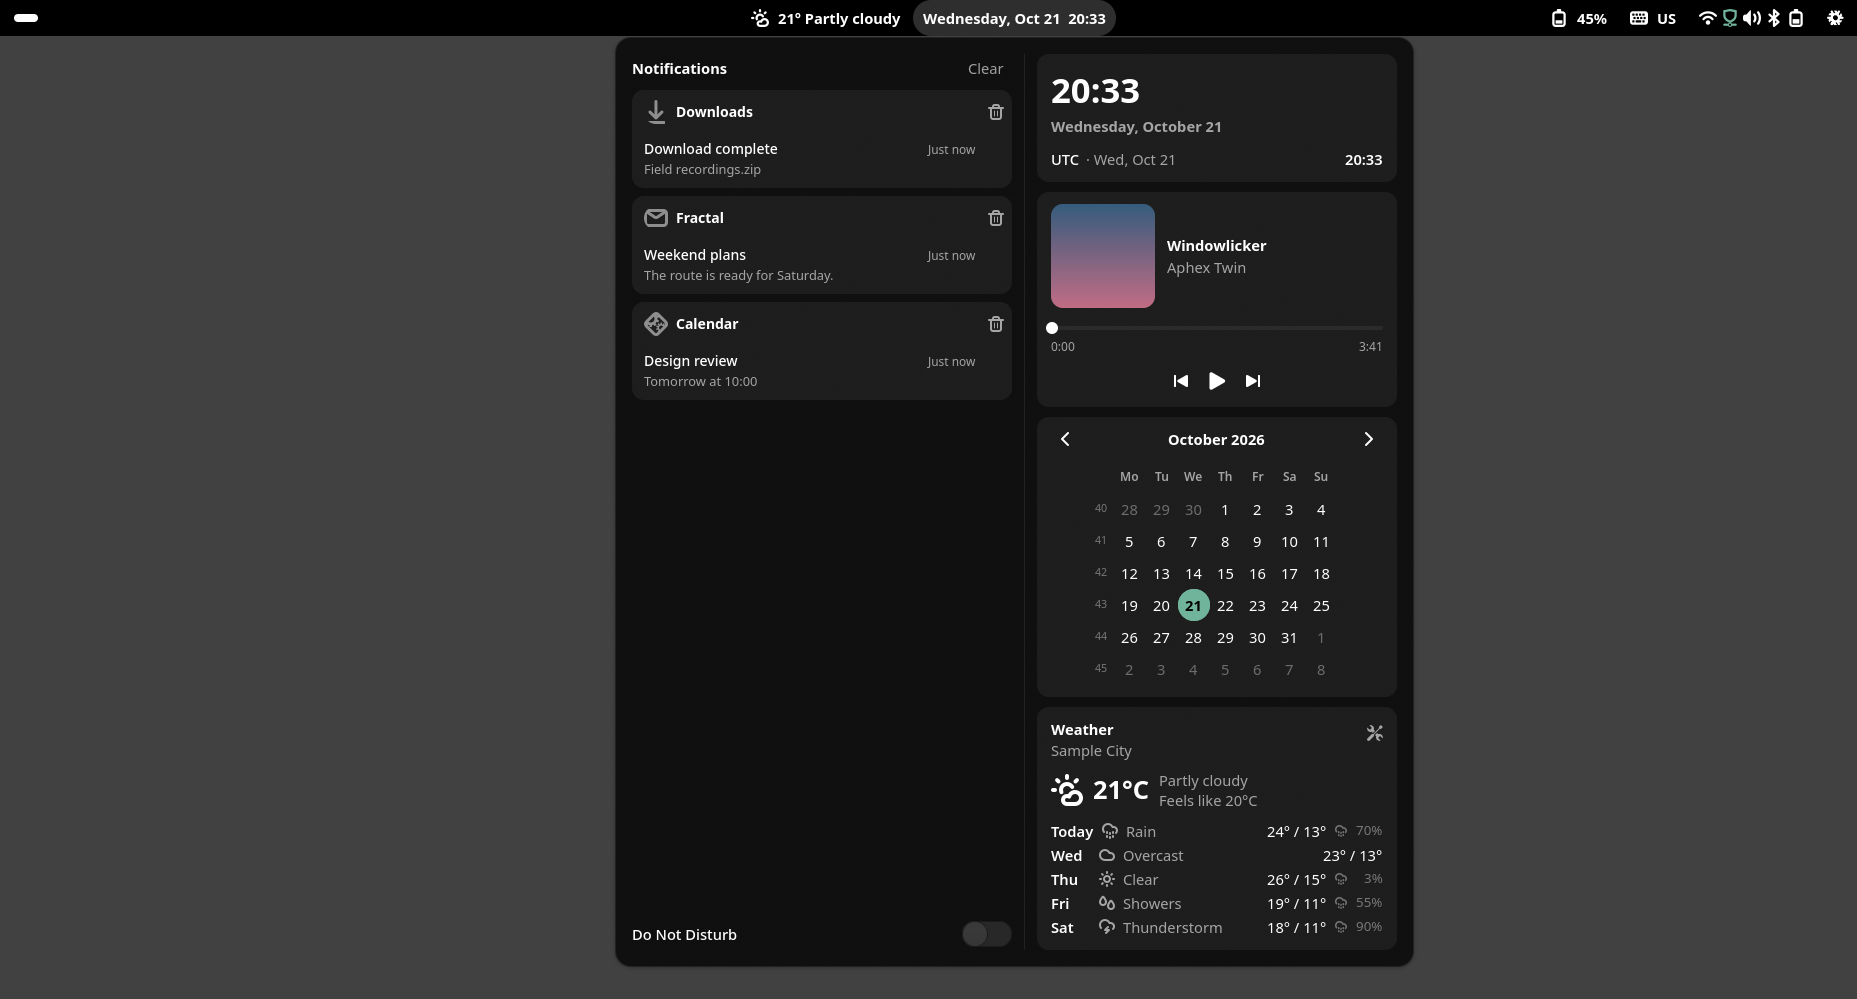
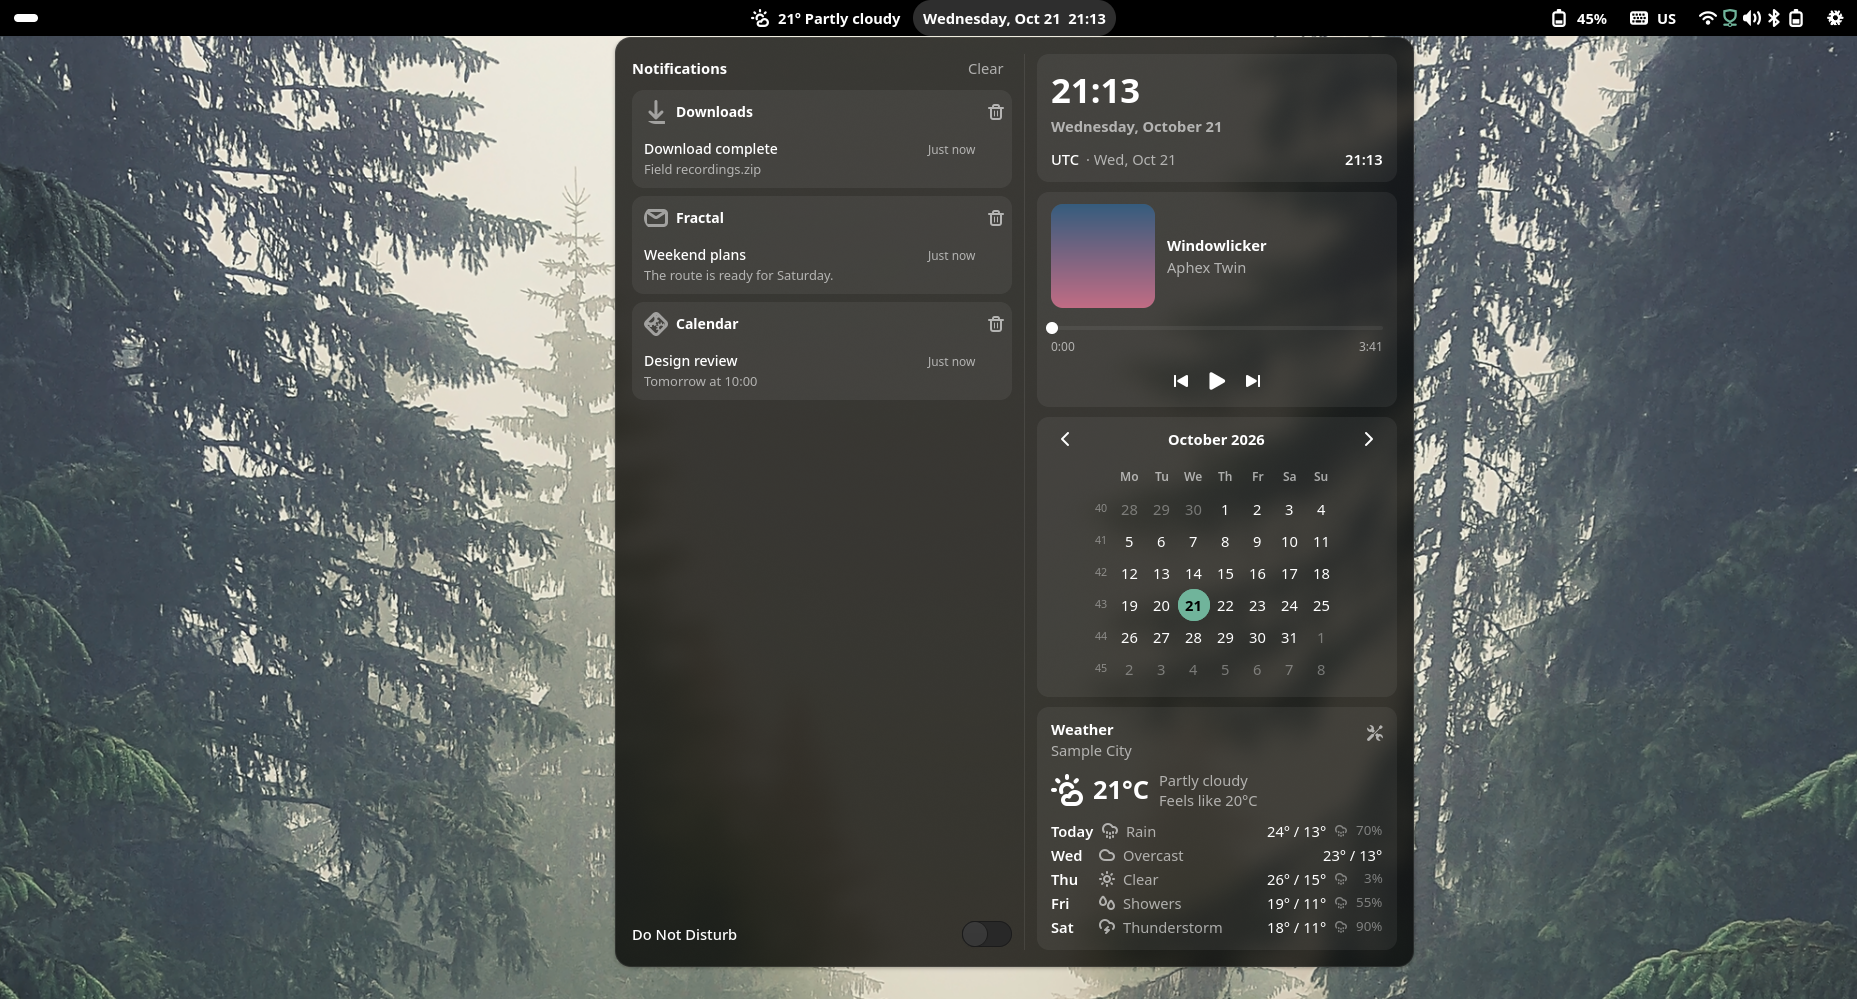
docs: refresh workspace wordmark and wallpaper screenshots

diff --git a/README.md b/README.md
@@ -1,7 +1,6 @@
-<p align="center">
-  <img src="assets/topbar.png" width="112" height="112" alt="topbar logo: four Quick Settings tiles with one mint active tile">
-</p>
-<h1 align="center">topbar</h1>
+<h1 align="center">
+  <img src="assets/topbar.png" width="224" height="112" alt="topbar">
+</h1>
 <p align="center">A GNOME Shell-inspired top bar for niri.</p>
 <p align="center">
   <a href="https://github.com/trevarj/topbar/actions/workflows/ci.yml"><img src="https://github.com/trevarj/topbar/actions/workflows/ci.yml/badge.svg?branch=master" alt="CI status on master"></a>
